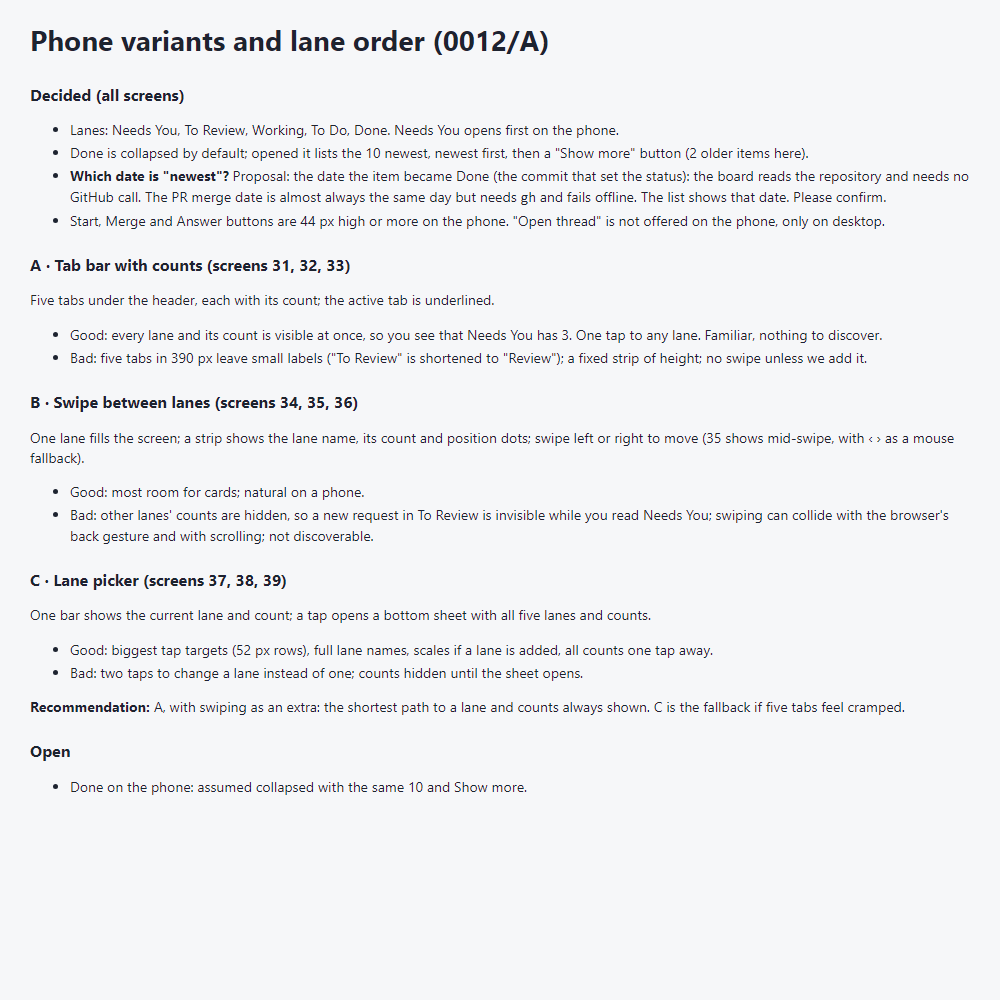
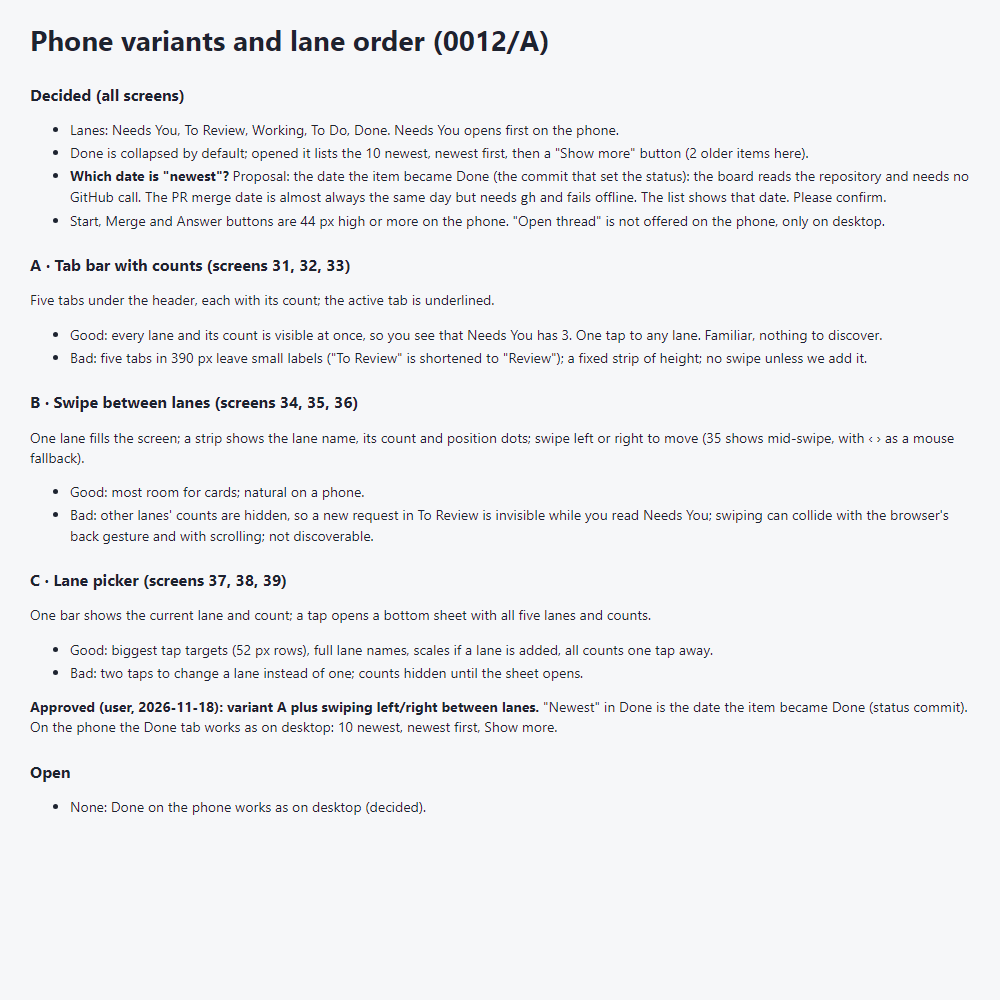
docs(design): 0012/A verdict: phone variant A plus swiping

Changed region(s): [[0.031, 0.682, 0.961, 0.837]]

diff --git a/docs/design/board-mockups/phone-lanes.html b/docs/design/board-mockups/phone-lanes.html
@@ -99,8 +99,8 @@ const NOTES=`<div class="notes"><h1>Phone variants and lane order (0012/A)</h1>
 <h2>A · Tab bar with counts (screens 31, 32, 33)</h2><p>Five tabs under the header, each with its count; the active tab is underlined.</p><ul><li>Good: every lane and its count is visible at once, so you see that Needs You has 3. One tap to any lane. Familiar, nothing to discover.</li><li>Bad: five tabs in 390 px leave small labels ("To Review" is shortened to "Review"); a fixed strip of height; no swipe unless we add it.</li></ul>
 <h2>B · Swipe between lanes (screens 34, 35, 36)</h2><p>One lane fills the screen; a strip shows the lane name, its count and position dots; swipe left or right to move (35 shows mid-swipe, with ‹ › as a mouse fallback).</p><ul><li>Good: most room for cards; natural on a phone.</li><li>Bad: other lanes' counts are hidden, so a new request in To Review is invisible while you read Needs You; swiping can collide with the browser's back gesture and with scrolling; not discoverable.</li></ul>
 <h2>C · Lane picker (screens 37, 38, 39)</h2><p>One bar shows the current lane and count; a tap opens a bottom sheet with all five lanes and counts.</p><ul><li>Good: biggest tap targets (52 px rows), full lane names, scales if a lane is added, all counts one tap away.</li><li>Bad: two taps to change a lane instead of one; counts hidden until the sheet opens.</li></ul>
-<p><b>Recommendation:</b> A, with swiping as an extra: the shortest path to a lane and counts always shown. C is the fallback if five tabs feel cramped.</p>
-<h2>Open</h2><ul><li>Done on the phone: assumed collapsed with the same 10 and Show more.</li></ul></div>`;
+<p><b>Approved (user, 2026-11-18): variant A plus swiping left/right between lanes.</b> "Newest" in Done is the date the item became Done (status commit). On the phone the Done tab works as on desktop: 10 newest, newest first, Show more.</p>
+<h2>Open</h2><ul><li>None: Done on the phone works as on desktop (decided).</li></ul></div>`;
 const h=location.hash.slice(1)||'desktop';
 if(h==='notes'){document.body.innerHTML=NOTES}
 else{if(h!=='desktop'&&h!=='done-open')document.body.classList.add('ph');

diff --git a/braids/0012-board-on-the-phone/A-mockups-phone-layout-and-the-new-lane/report.md b/braids/0012-board-on-the-phone/A-mockups-phone-layout-and-the-new-lane/report.md
@@ -11,16 +11,21 @@
 - A, tab bar with counts: all lanes and counts always visible, one tap. Labels are small (To Review shortened to Review).
 - B, swipe: most room for cards. Other lanes' counts hidden, swipe can collide with the back gesture, not discoverable.
 - C, lane picker sheet: biggest targets, scales. Two taps, counts hidden until opened.
-- Recommendation: A, with swiping as an extra.
+- Approved by the user (2026-11-18): A plus swiping left/right between lanes.
 
 ## Validation
 
 Screens viewed after rendering. Gate (`npm run verify`) run on this branch; only docs and braid files changed.
 
+## Decisions
+
+- Phone: variant A (tab bar with counts) plus swiping left/right to switch lanes (user, 2026-11-18). The approved variant is marked in the mockup notes (screen 40).
+- "Newest" in Done is the date the item became Done (its status commit).
+- On the phone the Done tab works as on desktop: 10 newest, newest first, Show more.
+
 ## Open
 
-- "Newest" in Done: proposed the date the item became Done (status commit), no GitHub call needed; the PR merge date is the alternative. Needs your pick.
-- Done on the phone assumed collapsed with the same 10 and Show more.
+Nothing. 0012/B builds this and updates `docs/board.md` and `docs/decisions.md`.
 
 For later items: none.
-Needs the user: scope: pick a phone variant (A tabs, B swipe, C picker) and the date for "newest" in Done, so 0012/B can build it.
+Needs the user: none.

diff --git a/braids/0012-board-on-the-phone/A-mockups-phone-layout-and-the-new-lane/log-2026-11-18-cabd8f61.md b/braids/0012-board-on-the-phone/A-mockups-phone-layout-and-the-new-lane/log-2026-11-18-cabd8f61.md
@@ -1,3 +1,7 @@
 ## 2026-11-18 14:12Z checkpoint
 
 done: mockups 29-40, report, gate green; next: user picks variant
+
+## 2026-11-18 14:15Z
+
+Verdict (user, 2026-11-18): phone variant A, the tab bar with counts, plus swiping left/right to switch lanes. "Newest" in Done is the date the item became Done (its status commit). On the phone the Done tab works as on desktop: 10 newest, newest first, Show more. 0012/B builds it.
